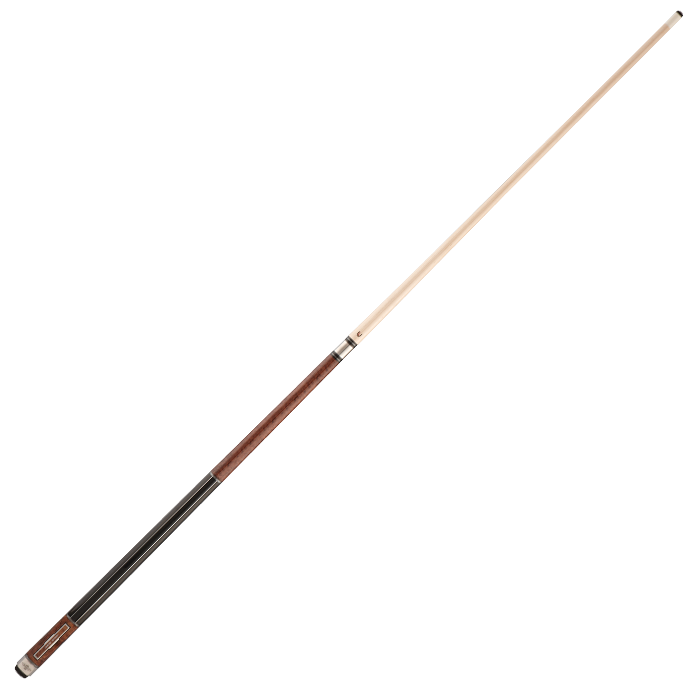
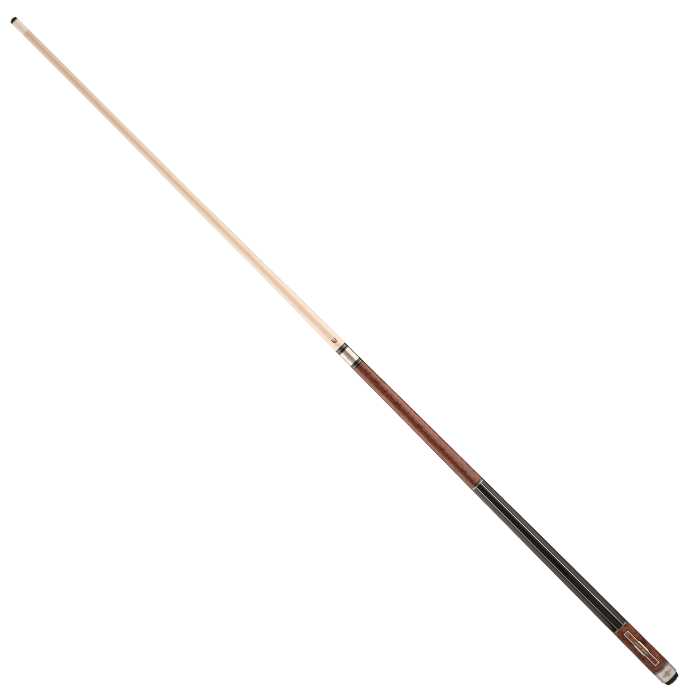
cue now rotatatas from the cue ball position

diff --git a/src/web/game/Cue.ts b/src/web/game/Cue.ts
@@ -11,7 +11,8 @@ export class Cue implements Sprite {
     location: Vector;
     _tipPosition: Vector;
     _radius: number;
-    _cueBallPosition: Vector;
+    static _cueBallPosition: Vector = new Vector(500,500);
+    _power: number;
 
     constructor() {
         console.log("Cue created");
@@ -27,10 +28,20 @@ export class Cue implements Sprite {
     init(): void {
         this.image = getImage("./assets/cue.png");
         this.visible = true;
+        this.location = new Vector(Input._mouseX, Input._mouseY);
         this.show();
         EventLoop.addListener({id: "cue", function: this.update, active: true});
     }
     update(): void {
-        Canvas.drawImage(getImage("./assets/cue.png"), Input._mouseX, Input._mouseY, 700, 700);
+        let x = Input._mouseX;
+        let y = Input._mouseY;
+        let cueball_x = Cue._cueBallPosition.getX();
+        let cueball_y = Cue._cueBallPosition.getY();
+
+        this.location = new Vector(x, y);
+        let r: number = Math.atan2(y-cueball_y, x-cueball_x);
+
+        //Canvas.drawImageWithRotation(getImage("./assets/cue.png"), cueball_x, cueball_y, 700, 700, r);
+        Canvas.drawImageRotationOrigin(getImage("./assets/cue.png"), cueball_x, cueball_y, 700, 700, r, 0, 0);
     }
 }

diff --git a/src/web/game/Graphics.ts b/src/web/game/Graphics.ts
@@ -49,4 +49,19 @@ export class Canvas {
         static drawImage(image: HTMLImageElement, x: number, y: number, width: number, height: number) {
             this.context.drawImage(image, x, y, width, height);
         }
+
+        static drawImageWithRotation(image: HTMLImageElement, x: number, y: number, width: number, height: number, angle: number) {
+            this.context.save();
+            this.context.translate(x, y);
+            this.context.rotate(angle);
+            this.context.drawImage(image, -width / 2, -height / 2, width, height);
+            this.context.restore();
+        }
+
+        static drawImageRotationOrigin(image: HTMLImageElement, x: number, y: number, width: number, height: number, angle: number, originX: number, originY: number) {
+            this.context.transform(1, 0, 0, 1, x, y);
+            this.context.rotate(angle);
+            this.context.drawImage(image, -originX, -originY, width, height);
+            this.context.setTransform(1, 0, 0, 1, 0, 0); // reset
+        }
 };
